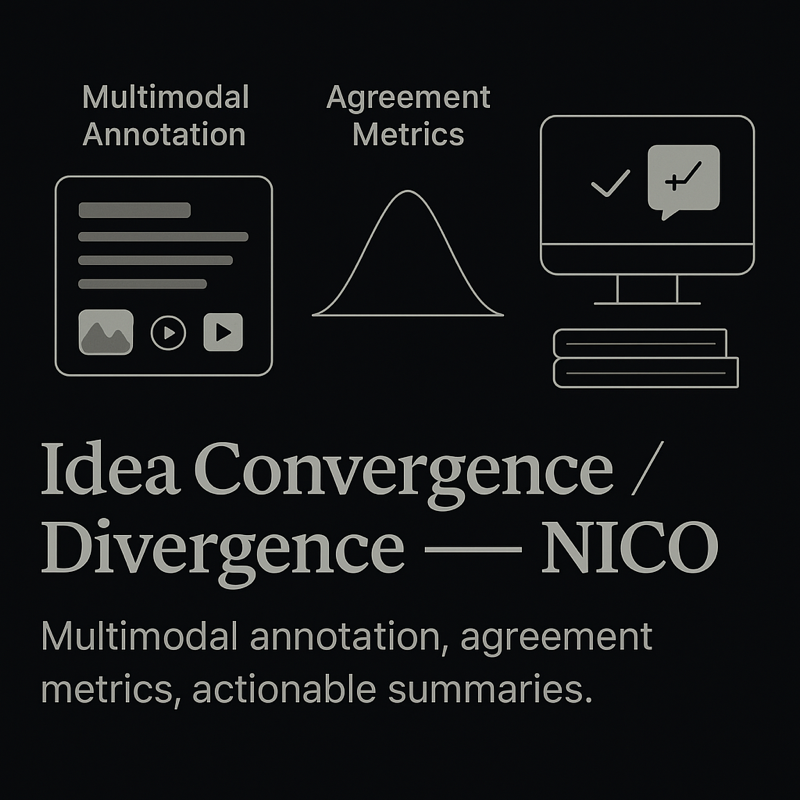
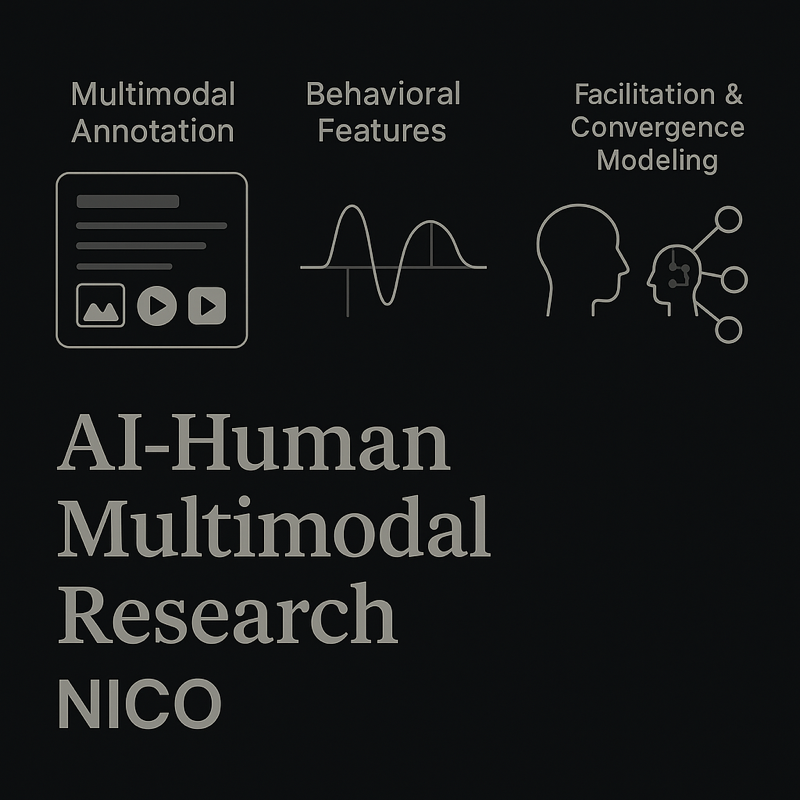
updated NICO page website.

diff --git a/nico-convergence.html b/nico-convergence.html
@@ -42,18 +42,13 @@
       <img src="nico-photo.png" alt="NICO convergence thumbnail">
     </figure>
 
-    <h1>Idea Convergence/Divergence — NICO</h1>
+    <h1>Multimodal Scientific Team Collaboration Research — NICO</h1>
     <p class="lead">
       This ongoing project is conducted under <strong>Dr. Evey Huang</strong> at the Northwestern Institute on Complex Systems (NICO), 
       in collaboration with <strong>Prof. Brian Uzzi</strong>. Our research investigates how multimodal AI can help teams reason, 
       align, and generate knowledge in scientific contexts.
     </p>
 
-    <p>
-      I am specifically focused on detecting when groups’ ideas converge or diverge, developing annotation pipelines, 
-      and validating human↔LLM agreement metrics. We also generate actionable summaries from transcripts to support 
-      decision-making and knowledge creation in teams.
-    </p>
   </article>
 </main>
 

diff --git a/projects.html b/projects.html
@@ -43,8 +43,7 @@
   <div class="thumb">
     <img src="nico-photo.png" alt="NICO convergence project thumbnail">
   </div>
-  <h3>Idea Convergence/Divergence — NICO</h3>
-  <p>Convergence bursts, human↔LLM agreement, insight summaries.</p>
+  <h3>Multimodal Scientific Team Collaboration Research — NICO</h3>
 </a>
   </div>
 
@@ -53,12 +52,10 @@
     <a class="card" href="stats20_project.html">
       <div class="thumb"><img src="stats20_photo.jpeg" alt="UCLA STATS 20 photo"></div>
       <h3>Undergraduate TA — UCLA STATS 20</h3>
-      <p>Teaching support, assessment, and materials design.</p>
     </a>
 
     <a class="card" href="ALISSTAIR_project.html">
 <div class="thumb"><img src="ALISSTAIR_photo.png" alt="ALISSTAIR UI screenshot"></div>      <h3>ALISSTAIR Implementation — UCLA STATS 10</h3>
-      <p>LLM‑guided labs; evaluation and rollout.</p>
     </a>
   </div>
 </main>

diff --git a/index.html b/index.html
@@ -4,7 +4,7 @@
   <meta charset="utf-8" />
   <meta name="viewport" content="width=device-width, initial-scale=1" />
   <title>Maxwell Chalekson</title>
-  <meta name="description" content="Maxwell Chalekson — data scientist exploring multimodal AI for teams & behavior." />
+  <meta name="description" content="Maxwell Chalekson — data scientist/HCI researcher exploring multimodal AI for teams & behavior." />
   <link rel="stylesheet" href="styles.css?v=final2" />
   <link rel="icon" href="assets/favicon.svg" />
 </head>
